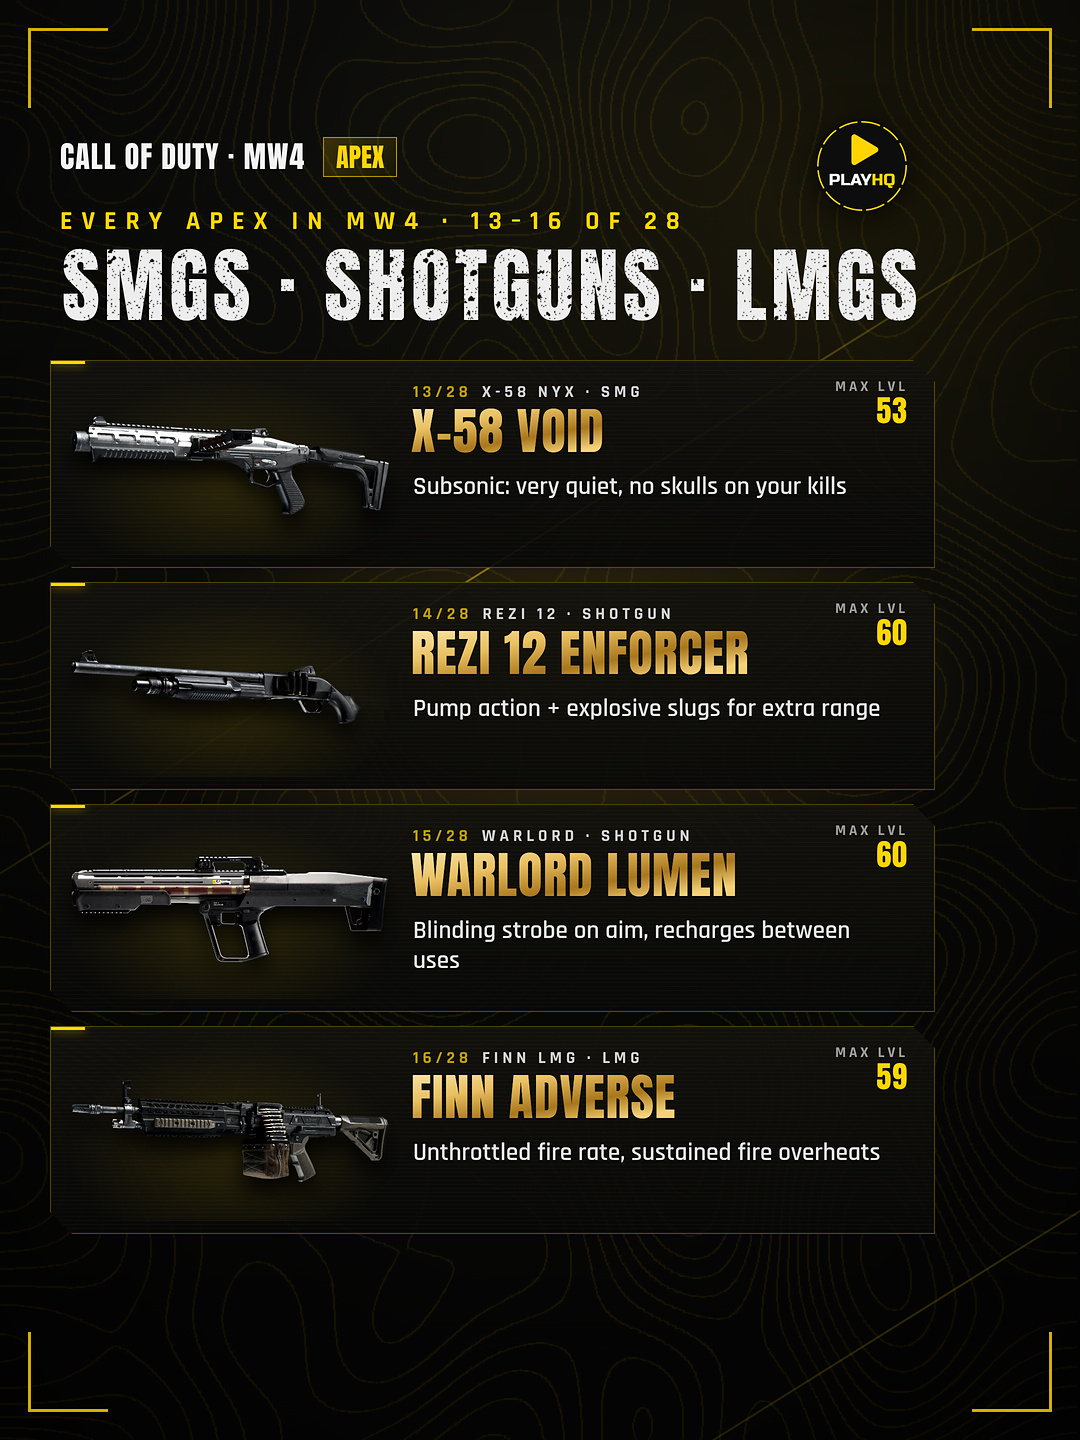
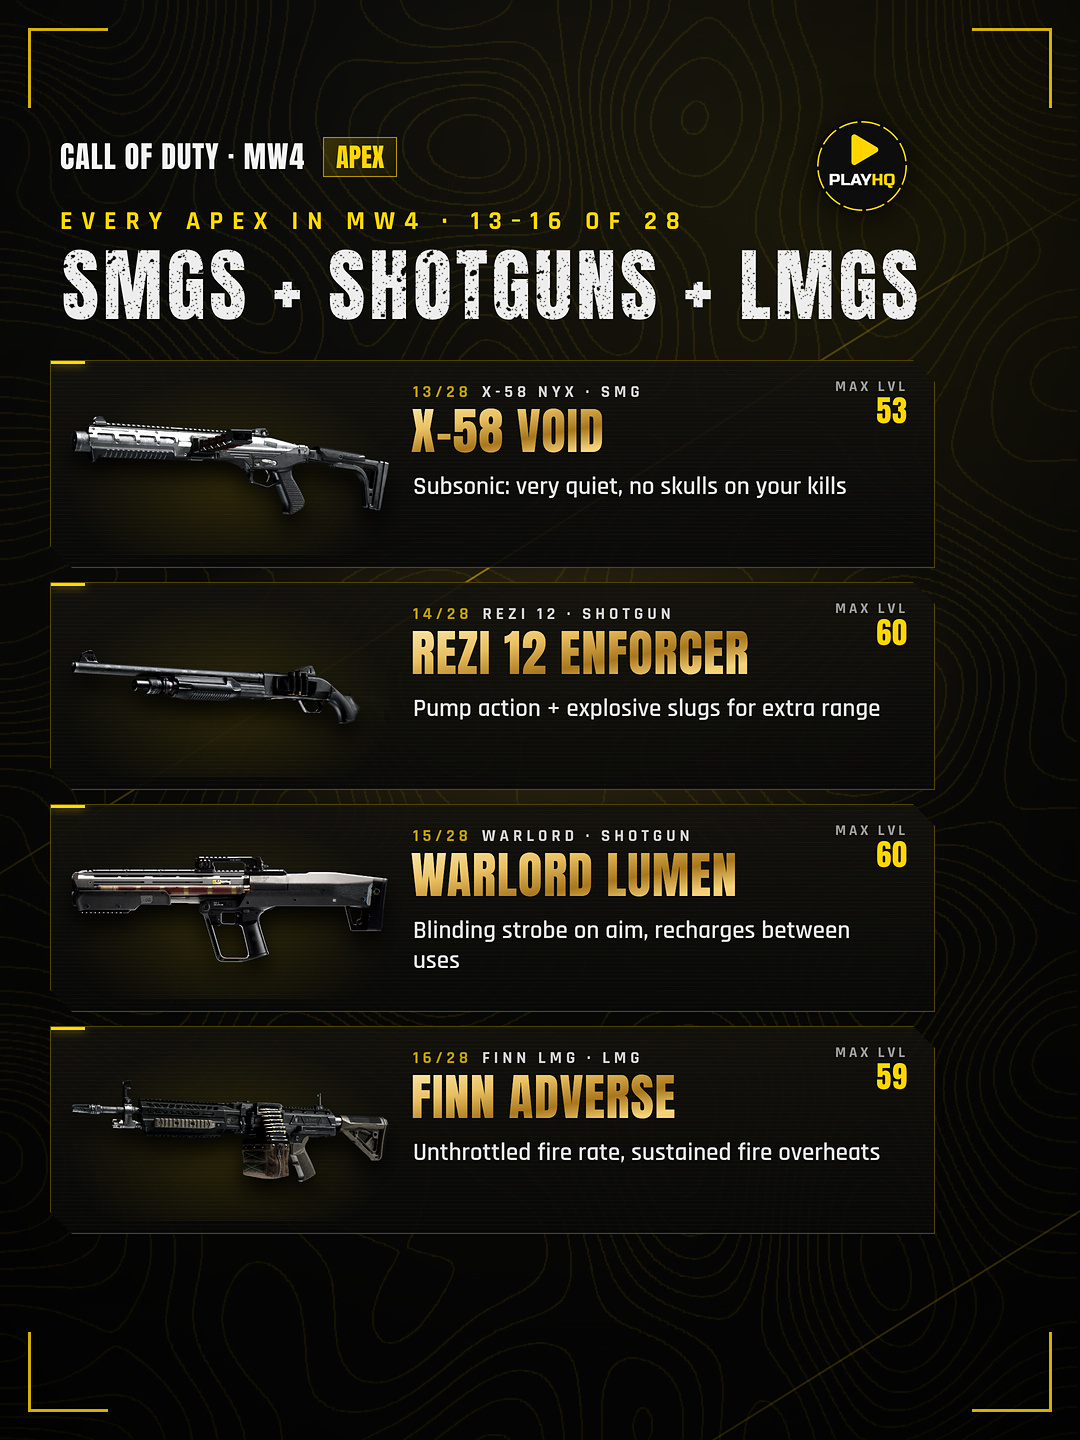
Every Apex carousel: verifier fixes (Axion aka Reaver, Han wording, Striga cutout)
Claude-Session: https://claude.ai/code/session_01LXyKCaXtAVVtiefghrjJL7

Changed region(s): [[0.3056, 0.1562, 0.6111, 0.2188], [0.6417, 0.1562, 0.8556, 0.2188], [0.0917, 0.1562, 0.275, 0.2188]]

diff --git a/templates/meta-carousel/apex_render.py b/templates/meta-carousel/apex_render.py
@@ -87,7 +87,7 @@ def main(data_path, out_dir=None):
     for k in range(0, len(items), 4):
         grp = items[k:k + 4]
         classes = list(dict.fromkeys(TITLES[i['cls']] for i in grp))
-        title = ' + '.join(classes) if len(classes) <= 2 else ' · '.join(classes)
+        title = ' + '.join(classes)
         sub = f'EVERY APEX IN MW4 · {grp[0]["n"]:02d}–{grp[-1]["n"]:02d} OF 28'
         pages.append((f'{len(pages) + 1:02d}_apex_{grp[0]["n"]:02d}', list_slide(grp, title, sub, d)))
     pages.append((f'{len(pages) + 1:02d}_cta', cta_slide(d)))
